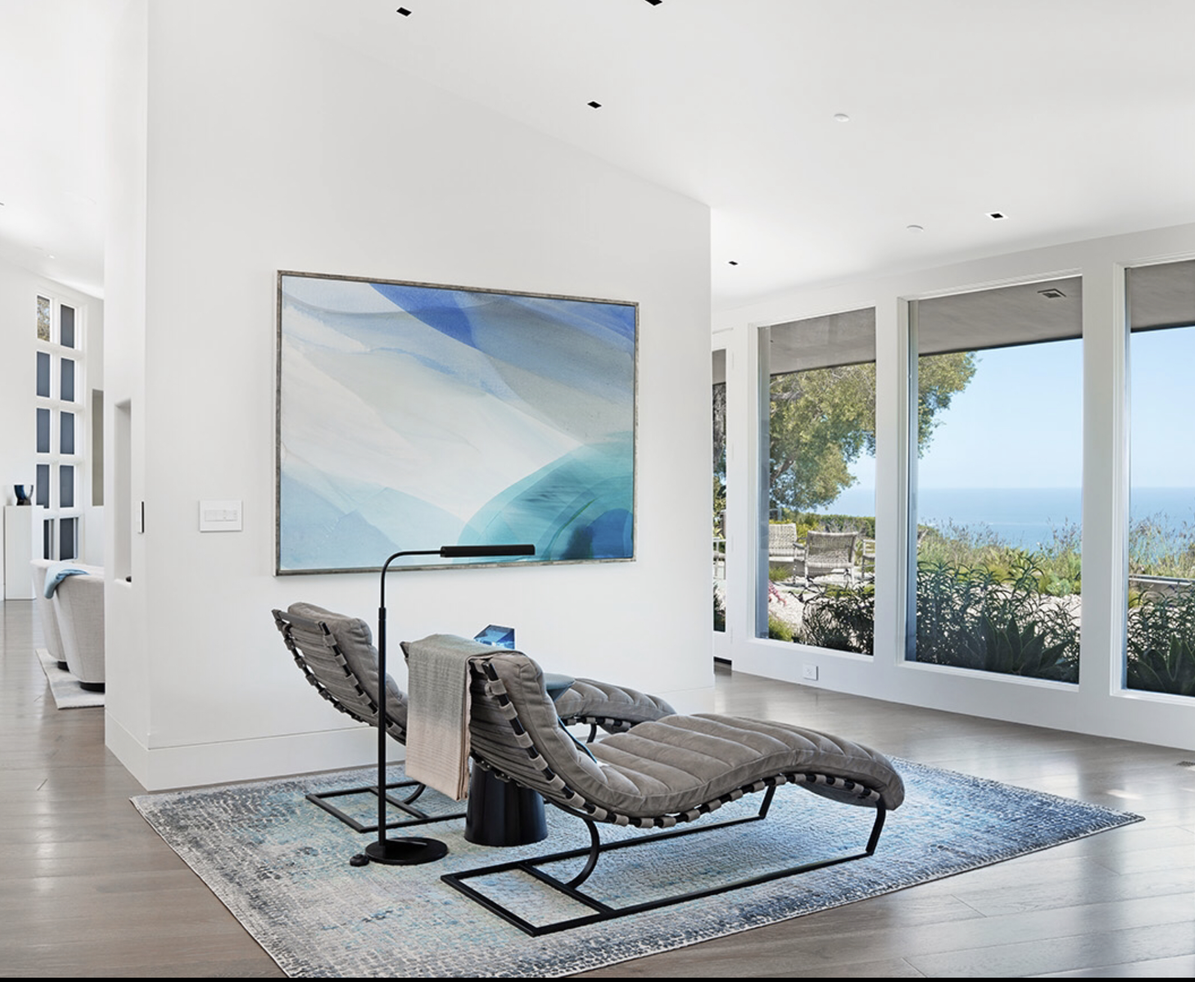
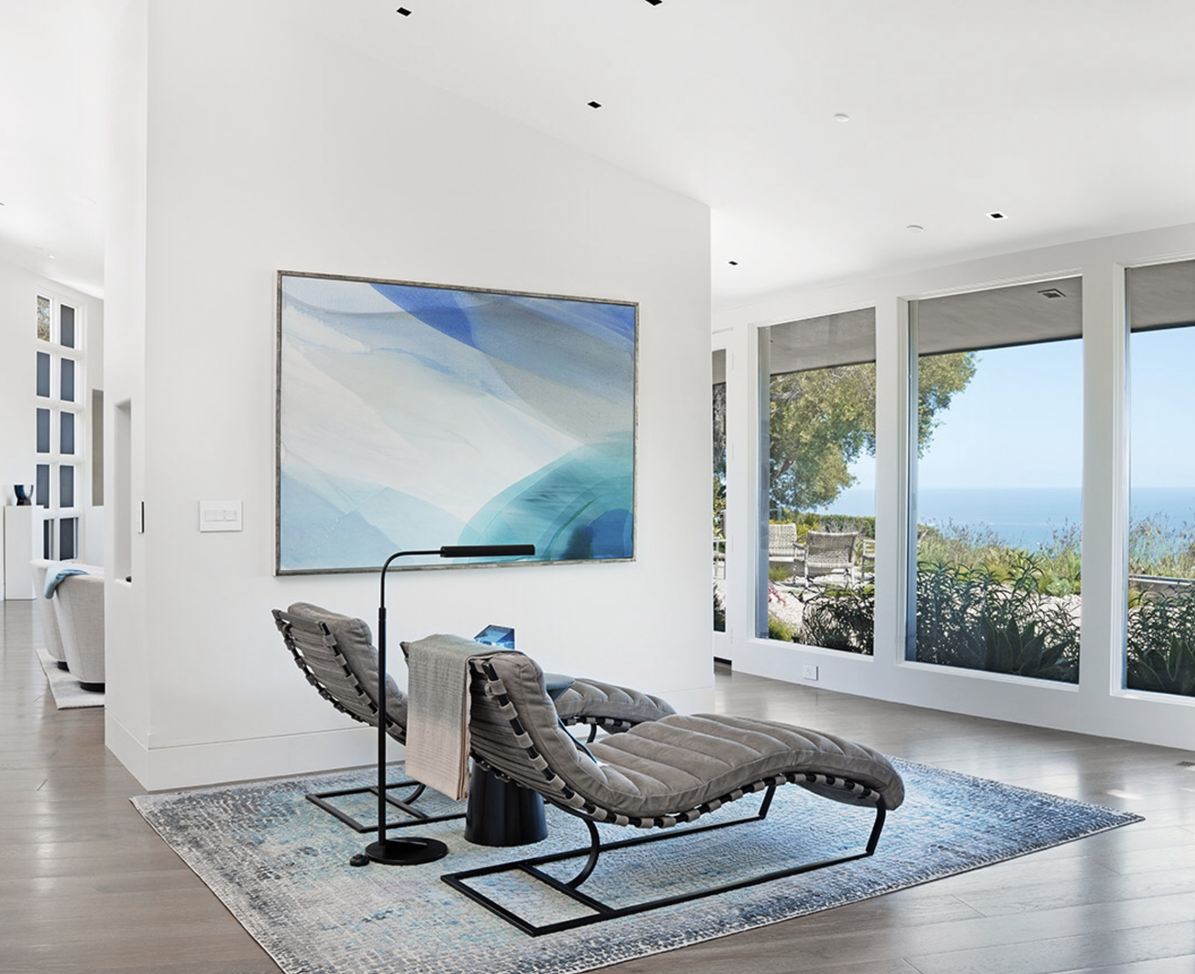
remove unwanted changed

diff --git a/contact.html b/contact.html
@@ -76,7 +76,7 @@
 
 <div class="lg:flex lg:my-24 my-8 p-6">
     <div class="lg:w-[35%] lg:p-24">
-        <img src="images/contact1.png" class="lg:hidden mb-6 w-[98%]  bg-white"/>
+        <img src="images/contact.png" class="lg:hidden mb-6 w-[98%]  bg-white"/>
         <div class="uppercase ">Let's connect</div>
         <div class="lg:text-5xl text-3xl my-8 leading-relaxed mb-16" style="line-height: 60px">We would love to learn
             more
@@ -96,7 +96,7 @@
         <div>laura@lauramotleydesign.com</div>
     </div>
     <div class="lg:w-[65%] lg:my-0 my-6 lg:block hidden">
-        <img src="images/contact1.png" class="w-full"/>
+        <img src="images/contact.png" class="w-full"/>
     </div>
 
 
